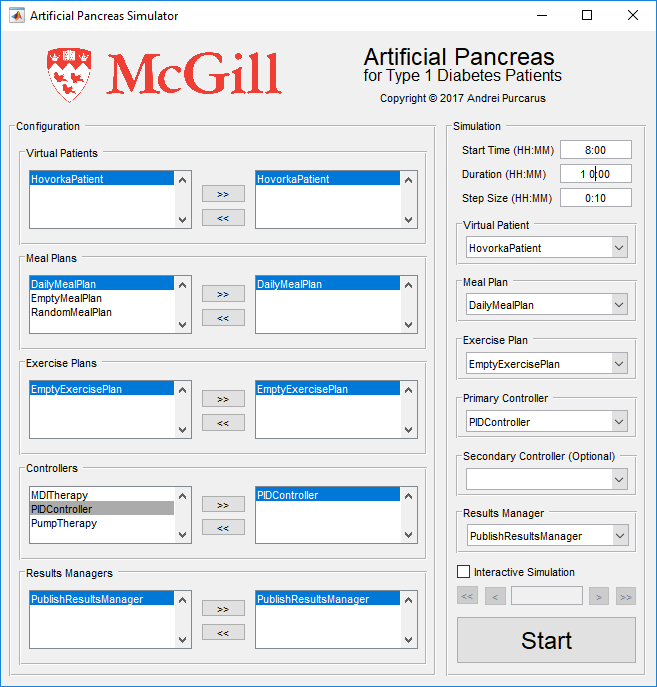
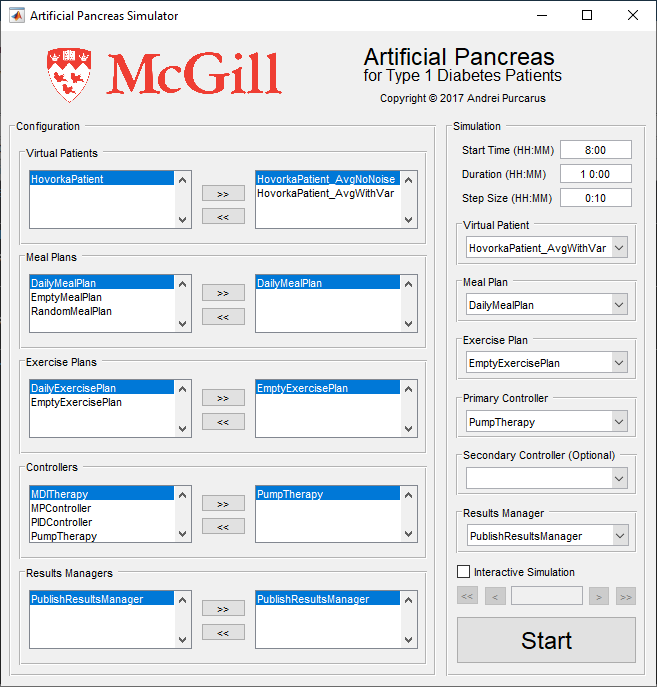
documentation updates

diff --git a/README.md b/README.md
@@ -62,7 +62,7 @@ This folder contains additional documentation.
 The user interface can be used by running:
 
 ```Matlab
-simulation
+guiSimulation
 ```
 
 As a result the following GUI should show.
@@ -71,10 +71,19 @@ As a result the following GUI should show.
 
 The GUI is composed of two parts **Configuration** and **Simulation**. In configuration, it is possible to reconfigure each component. In simulation, you can select the desired configuration to simulate.
 
-### Inline Functions
+For a quick start run **Start**. In the configuration section, it is possible to create different flavors of the same module with different options. By default, we create 2 instances of **HovorkaPatient** one called **HovorkaPatient_AvgNoNoise** and the other **HovorkaPatient_AvgWithVar**. These represents 2 different configurations of the same **HovorkaPatient** module.
 
-Start a new m-File, this file can be in any folder.  
-The first thing we need to do is to configure the path to include the _artificial pancreas simulator_. For this, we write:
+By default, the simulator look at all folder classes defined in [getLibraryPaths](https://github.com/McGillDiabetesLab/artificial-pancreas-simulator/blob/master/getLibraryPaths.m). It is possible to modify **getLibraryPaths** to add your custom path, more on this here [Adding User Functions](docs/Adding-User-Functions.md).
+
+### Scripts
+
+A sample simulation can be excuted by running:
+
+```Matlab
+simulation
+```
+
+This simulator can be used as a library from anywhere in your local repository. For this you need to configure the path to include the _artificial pancreas simulator_. For this, we write:
 ```Matlab
 run('[YOUR PATH]/artificial-pancreas-simulator/configurePaths');
 ```
@@ -122,10 +131,25 @@ This procedure is implemented in `example\inlineSim.m`.
 ![](docs/inlineSim.png)
 
 ## Additional Resources
-- [Software Requirements Specification](docs/Software-Requirements-Specification.md)
-- [TODO: Multiple Patient Simulation](docs/Multiple-Patient-Simulation.md)
-- [TODO: Adding User Functions](docs/Adding-User-Functions.md)
-- [TODO: HovorkaPatient Detailed](docs/HovorkaPatient-Detailed.md)
 
-## Contact
+- [Software Requirements Specification](docs/Software-Requirements-Specification.md)
+- [Detailed Script Simulation](docs/Detailed-Script-Simulation.md)
+- [Multiple Patient Simulation](docs/Multiple-Patient-Simulation.md)
+- [Adding User Functions](docs/Adding-User-Functions.md)
+
+## Credits
+
+This simulator was designed by the team in [McGill Artificial Pancreas Lab](https://www.mcgill.ca/haidar/), mainly:
+- [Andrei Purcarus](https://github.com/Gripnook): Implemented the simulator backbone code.
+- [Anas El Fathi](https://github.com/anaselfathi): Implemented library modules, and provides long-term support.
+- Prof. Ahmad Haidar: Provided overall supervision and feedback.
+
+A schalary paper about the simulator is in-progress, meanwhile, if you find this simulator usefull please feel free to cite our review paper describing BergmanPatient and MPController.
+
+```
+A. El Fathi, M. Raef Smaoui, V. Gingras, B. Boulet and A. Haidar, "The Artificial Pancreas and Meal Control: An Overview of Postprandial Glucose Regulation in Type 1 Diabetes," in IEEE Control Systems Magazine, vol. 38, no. 1, pp. 67-85, Feb. 2018, doi: 10.1109/MCS.2017.2766323.
+```
+
+## Contact and Issues
+
 For additional assistance, please use [GitHub Issues](https://github.com/McGillDiabetesLab/artificial-pancreas-simulator/issues).
